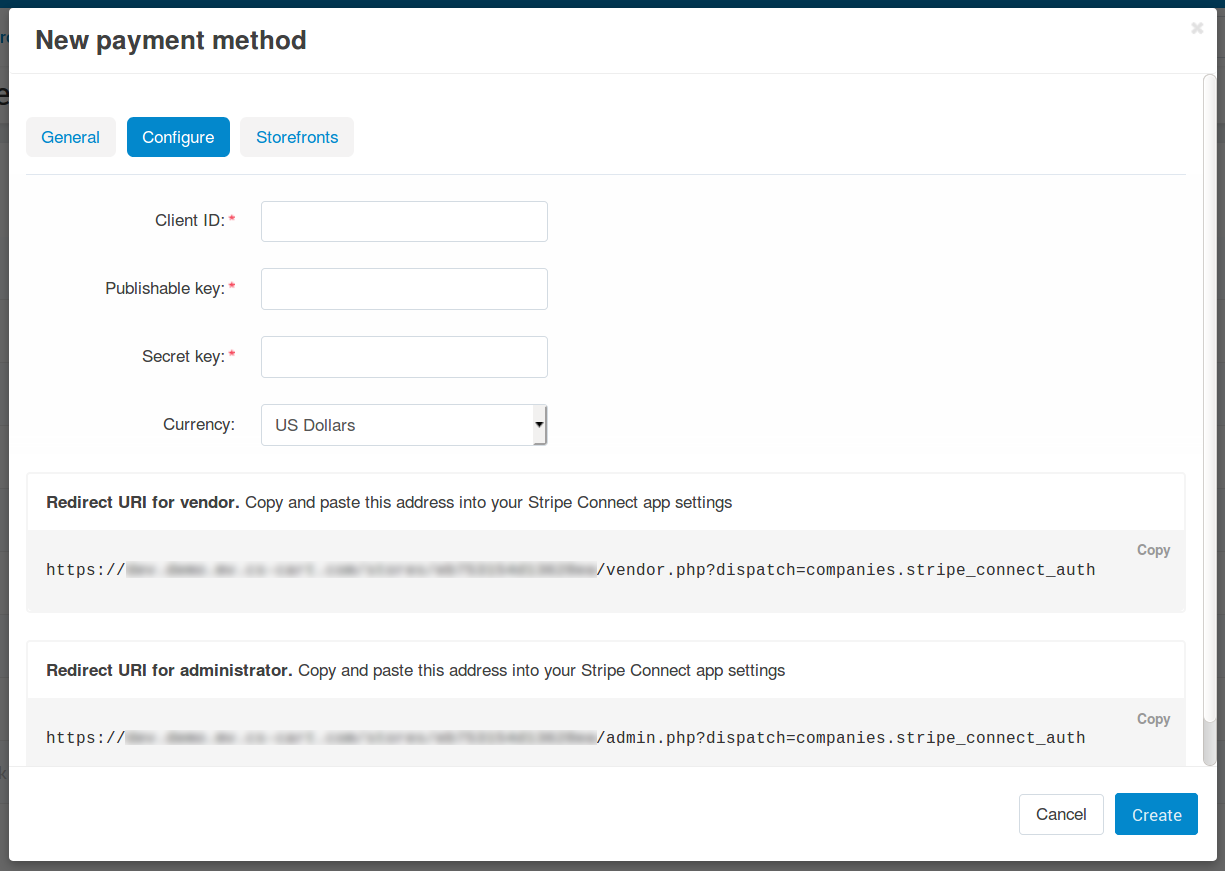
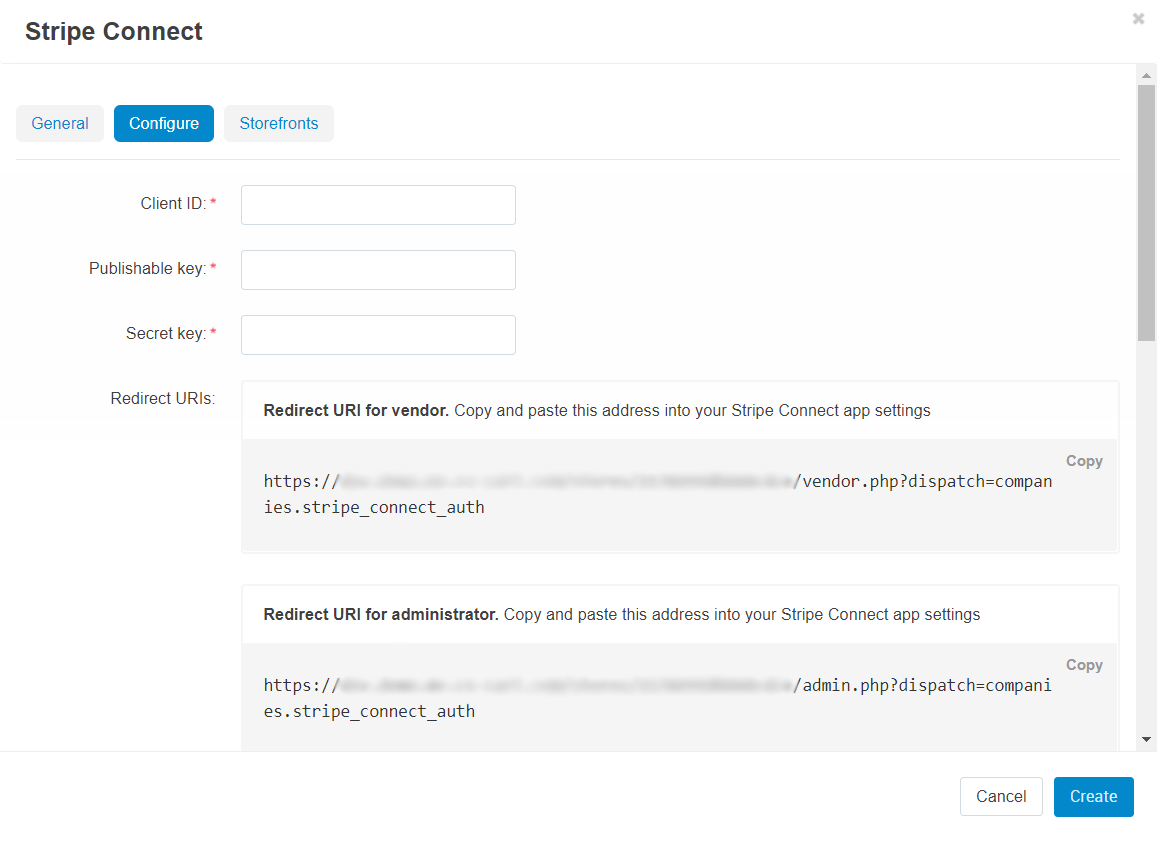
En: User Guide: Payment methods: Information about delayed transfers of funds added

diff --git a/en/user_guide/payment_methods/paypal_commerce_platform.rst b/en/user_guide/payment_methods/paypal_commerce_platform.rst
@@ -23,7 +23,15 @@ How it Works
 
 #. When the customer clicks one of the buttons, he goes to the PayPal checkout page, where he pays for his order.
 
-#. PayPal automatically splits all the money between the marketplace and the vendors whose products were bought. The marketplace owner doesn’t have to transfer money manually.
+#. Then there are two ways of what happens next:
+
+   * PayPal automatically splits all the money between the marketplace and the vendors whose products were bought. The marketplace owner doesn’t have to transfer money manually.
+
+   * After placing an order, the **Transfer funds to vendors** button appears on the order page. This button allows the marketplace owner to tranfer money to the vendor for the current order manually. After clicking this button, the note will inform you if **Funds have been transferred successfully** or not.
+
+     .. note::
+
+         This action is available after ticking the **Delay transfer of funds** checkbox when configuring the payment method.
 
 How to Configure the Payment Method
 ===================================
@@ -39,21 +47,29 @@ How to Configure the Payment Method
    * **Account settings:**
 
      * **Partner integration code**—your build notation (BN) code. Contact `CS-Cart Customer Care <https://helpdesk.cs-cart.com>`_ to get it.
-   
+
      * **Merchant account ID, App Client ID, App Secret**—these settings connect your marketplace to your PayPal account. Get these credentials from PayPal.
-     
+
      * **Test/Live mode**—set to *Live* to accept real payments.
-     
+
        The test mode is intended for developers. It works with the special PayPal sandbox instead of live servers. No real money is involved in sandbox transactions.
-       
+
      * **Currency**—if you specify the currency that is not the same as the marketplace primary currency, then it will be converted as soon as you go to the PayPal checkout page.
-     
+
+   * **Delay transfer of funds to vendors:**
+
+     * **Delay transfer of funds**—delay sending money to vendors up to 28 days. Configure manual or automatic disbursements to vendors.
+
+       To schedule automatic periodic disbursements, add a special command to cron. Set the desired value of the "--days" parameter. Money will be automatically transfered to vendors for orders that are older than this value.
+
+       ``php /path/to/cart/admin.php --dispatch=paypal_commerce_platform.disburse_payouts_by_cron --payment_id=14 --days=14`` 
+
    * **Funding sources to show on checkout**—choose the payment services you want to be displayed on the PayPal checkout page.
-     
+
    * **Cards to show on checkout**—choose the payment cards you want PayPal to accept payments from.
 
    * **Button appearance**—choose the shape, color and height of the PayPal button on the checkout page.
-   
+
 #. Click the **Create** button.
 
    .. image:: img/paypal_settings.png

diff --git a/en/user_guide/payment_methods/stripe_connect.rst b/en/user_guide/payment_methods/stripe_connect.rst
@@ -36,19 +36,33 @@ Step 1. Configure the Payment Method
 
    * **Secret key**—the secret API key of your Stripe account. 
 
-   * **Currency**—select the currency of your Stripe account. It should match the primary currency of your store—that way the calculations will be more precise.
-
    * **Redirect URIs**—the values that you must copy to the corresponding fields on the Stripe dashboard.
 
      .. note::
 
       Learn more about how to get client ID and API keys for Stripe Connect and how to use Redirect URIs :doc:`in a separate article </user_guide/addons/stripe_connect/credentials>`.
 
-#. Once you have configured the payment method, click **Create**.
+     .. image:: img/stripe_connect_configure.png
+         :align: center
+         :alt: The Configure tab of the Stripe Connect payment method.
 
-   .. image:: img/stripe_connect_configure.png
-       :align: center
-       :alt: The Configure tab of the Stripe Connect payment method.
+   * **Currency**—select the currency of your Stripe account. It should match the primary currency of your store—that way the calculations will be more precise.
+
+   * **Enable 3-D Secure**—the setting defines whether money will first go to the marketplace owner instead of going straight to vendors. Money will be automatically distributed between connected Stripe accounts via transfers later.
+
+   * **Delay transfer of funds**—delay sending money to vendors. Configure manual or automatic disbursements to vendors. The setting works if **3-D Secure** was enabled.
+
+     * To schedule automatic periodic disbursements, add a special command to cron. Set the desired value of the "--days" parameter. Money will be automatically transfered to vendors for orders that are older than this value.
+
+       ``php /path/to/cart/admin.php --dispatch=stripe_connect.transfer_funds_by_cron --payment_id=14 --days=14`` 
+
+     * To tranfer money to the vendor for the current order manually, click the **Transfer funds to vendors** button on the order page. After clicking this button, the note will inform you if **Funds have been transferred successfully** or not.
+
+     .. image:: img/stripe_connect_configure_2.png
+         :align: center
+         :alt: The Configure tab of the Stripe Connect payment method.
+
+#. Once you have configured the payment method, click **Create**.
 
 ================================================
 Step 2. Have Your Vendors Connect Their Accounts
